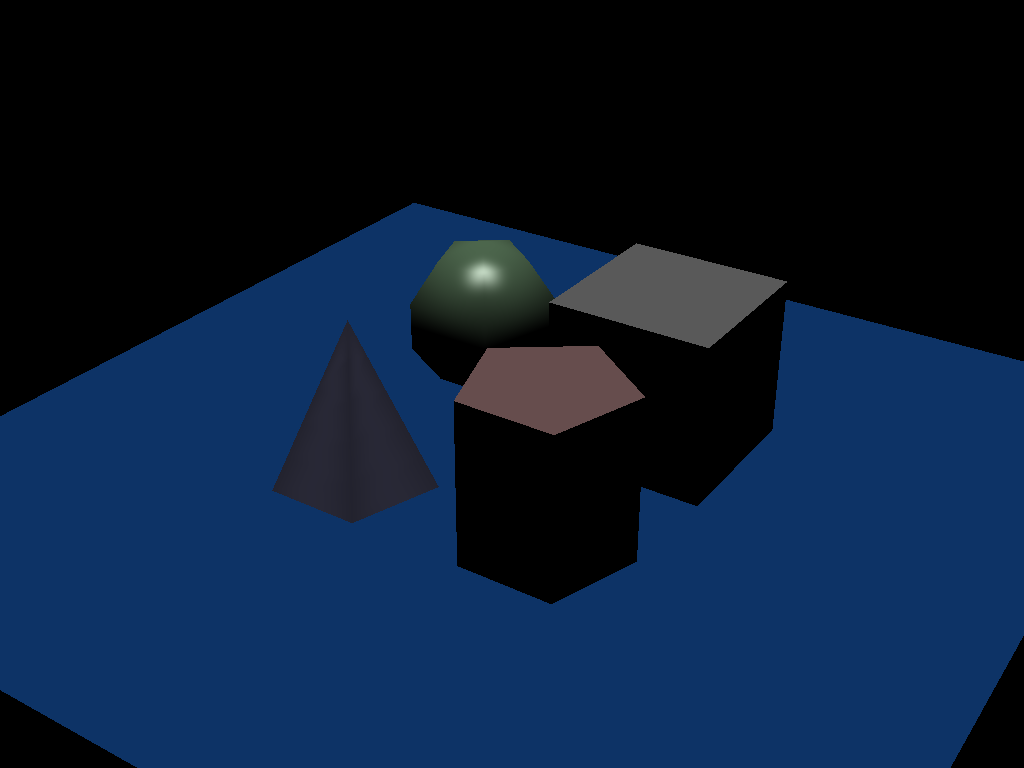
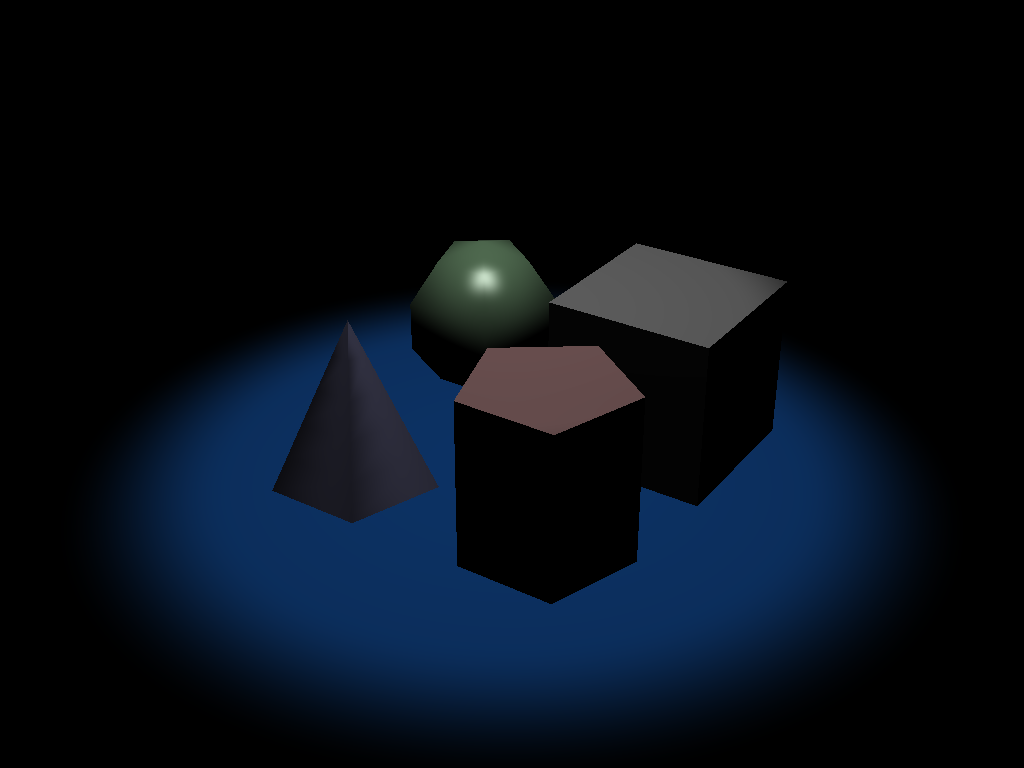
done

diff --git a/src/realtime.cpp b/src/realtime.cpp
@@ -186,7 +186,7 @@ void Realtime::paintGL() {
     //B:View Matrix setting
     glm::mat4 view = glm::lookAt(
         glm::vec3(m_renderData.cameraData.pos),
-        glm::vec3(m_renderData.cameraData.look),
+        glm::vec3(m_renderData.cameraData.look)+ glm::vec3(m_renderData.cameraData.pos),//center = eye + look direction
         glm::vec3(m_renderData.cameraData.up)
         );
 
@@ -216,6 +216,9 @@ void Realtime::paintGL() {
         glUniform3fv(glGetUniformLocation(m_shader_program, (prefix + "function").c_str()), 1, &m_renderData.lights[i].function[0]);
         glUniform4fv(glGetUniformLocation(m_shader_program, (prefix + "pos").c_str()), 1, &m_renderData.lights[i].pos[0]);
         glUniform4fv(glGetUniformLocation(m_shader_program, (prefix + "dir").c_str()), 1, &m_renderData.lights[i].dir[0]);
+        //spot lights
+        glUniform1f(glGetUniformLocation(m_shader_program, (prefix + "penumbra").c_str()), m_renderData.lights[i].penumbra);
+        glUniform1f(glGetUniformLocation(m_shader_program, (prefix + "angle").c_str()), m_renderData.lights[i].angle);
     }
 
     GLint modelLoc = glGetUniformLocation(m_shader_program, "u_model");
@@ -319,7 +322,7 @@ void Realtime::mouseMoveEvent(QMouseEvent *event) {
         glm::vec3 up   = glm::vec3(m_renderData.cameraData.up);
 
         //2.sens
-        float sensitivity = 0.1f;
+        float sensitivity = 0.2f;
 
         //3.rotation angle
         float yawAngle = glm::radians(-sensitivity * deltaX);
@@ -363,14 +366,14 @@ void Realtime::timerEvent(QTimerEvent *event) {
     glm::vec3 right = glm::normalize(glm::cross(look, up));
 
     //3. speed
-    float speed = 5.0f;
+    float speed = 1.0f;
 
     // 4. new pos by key
     if (m_keyMap[Qt::Key_W]) {
-        pos += look * speed * deltaTime;
+        pos += glm::normalize(look) * speed * deltaTime;
     }
     if (m_keyMap[Qt::Key_S]) {
-        pos -= look * speed * deltaTime;
+        pos -= glm::normalize(look) * speed * deltaTime;
     }
     if (m_keyMap[Qt::Key_D]) {
         pos += right * speed * deltaTime;

diff --git a/src/utils/Cone.cpp b/src/utils/Cone.cpp
@@ -79,14 +79,9 @@ void Cone::makeSlopeTile(glm::vec3 v1, glm::vec3 v2, glm::vec3 v3, glm::vec3 v4,
     glm::vec3 n1, n2, n3, n4;
     float epsilon = 0.0001f;
 
-    float theta_avg = (theta_start + theta_end) / 2.0f;
-
-    glm::vec3 tipNormal = glm::normalize(glm::vec3(2.0f * glm::cos(theta_avg), 1.0f, 2.0f * glm::sin(theta_avg)));
-
-
 
     if (v1.y >= 0.5f - epsilon) {
-        n1 = tipNormal;
+        n1 = glm::normalize(glm::vec3(2.0f * glm::cos(theta_start), 1.0f, 2.0f * glm::sin(theta_start)));
     } else {
         float xNorm = 2.0f * v1.x;
         float yNorm = 0.25f * (1.0f - 2.0f * v1.y); // (0.25 - 0.5y)
@@ -96,7 +91,7 @@ void Cone::makeSlopeTile(glm::vec3 v1, glm::vec3 v2, glm::vec3 v3, glm::vec3 v4,
 
 
     if (v2.y >= 0.5f - epsilon) {
-        n2 = tipNormal;
+        n2 = glm::normalize(glm::vec3(2.0f * glm::cos(theta_end), 1.0f, 2.0f * glm::sin(theta_end)));
     } else {
         float xNorm = 2.0f * v2.x;
         float yNorm = 0.25f * (1.0f - 2.0f * v2.y);
